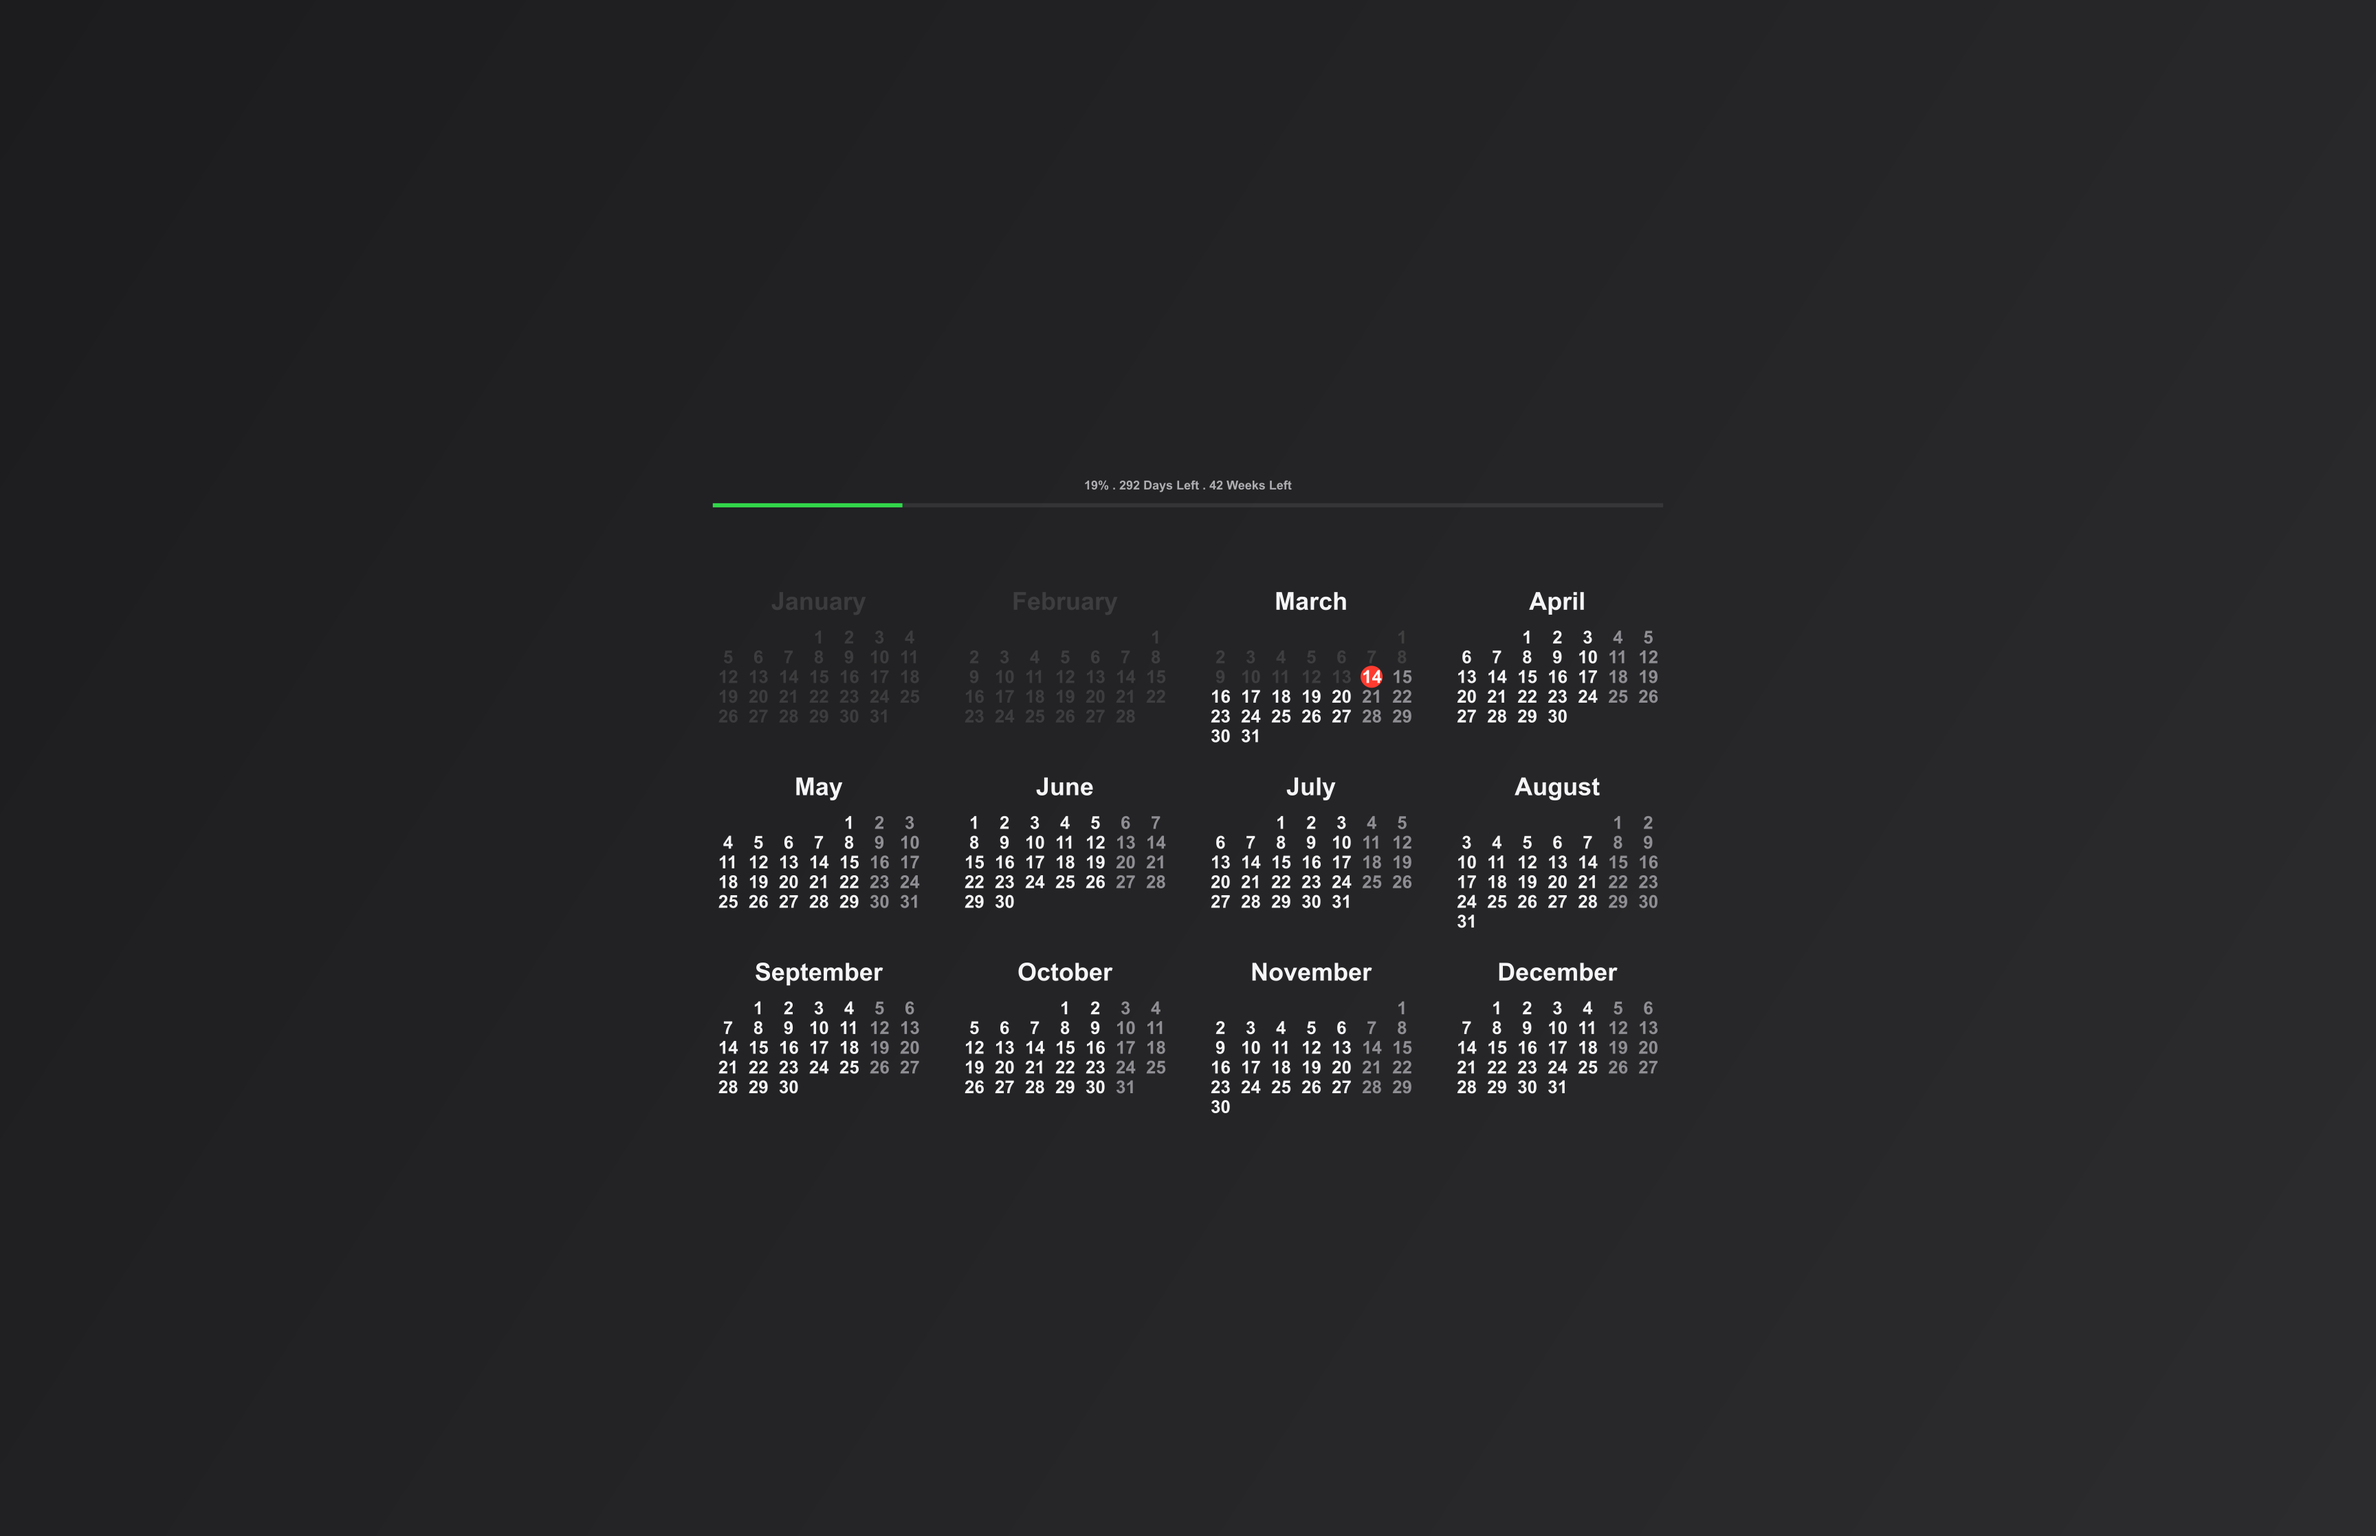
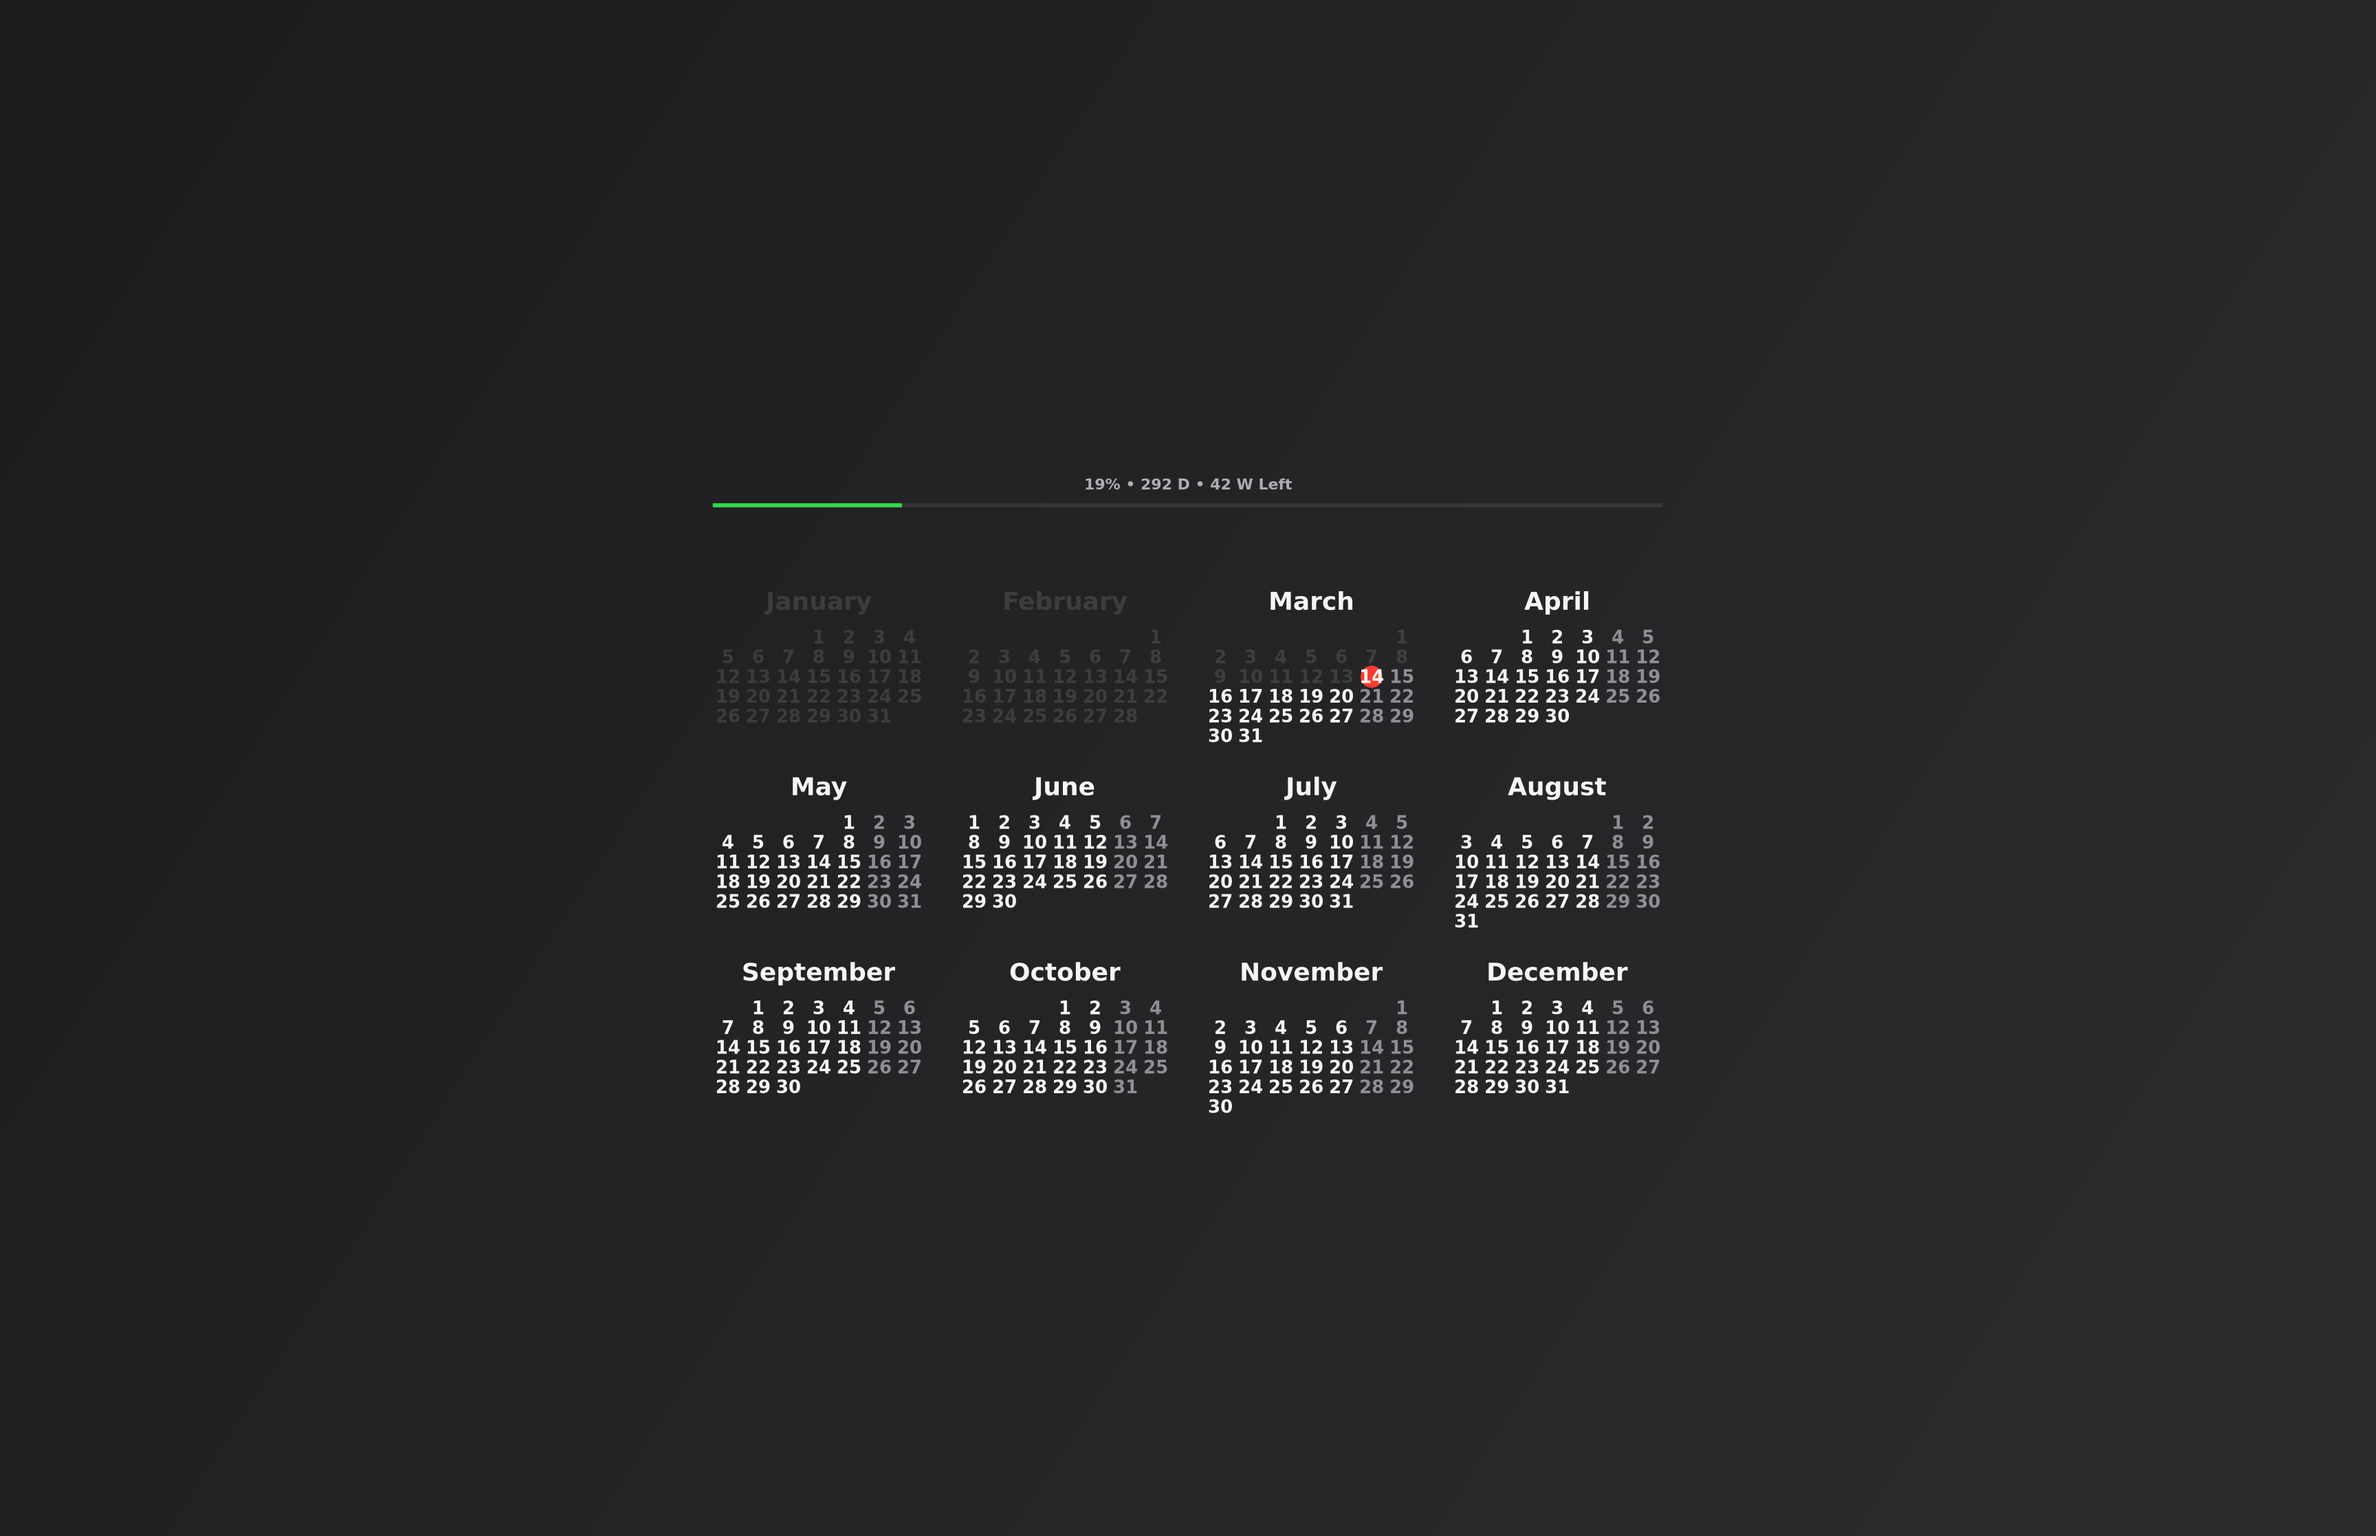
Few changes

diff --git a/mac-wallpaper.js b/mac-wallpaper.js
@@ -189,21 +189,21 @@ function drawHeader(){
 
   // Track (Subtle matching line)
   ctx.fillStyle = "rgba(255,255,255,0.08)";
-  ctx.fillRect(barX, barY, barW, 6);
+  ctx.fillRect(barX, barY, barW, 10);
 
   // Fill (Active progress)
   ctx.fillStyle = CONFIG.PROGRESS_BAR_COLOR;
-  ctx.fillRect(barX, barY, barW * percent, 6);
+  ctx.fillRect(barX, barY, barW * percent, 10);
 
   // Text (Centered over the bar)
   const daysLeft = Math.floor((end-now)/(1000*60*60*24));
   const weeksLeft = Math.ceil(daysLeft / 7);
   
   text(
-    `${Math.floor(percent*100)}% . ${daysLeft} Days Left . ${weeksLeft} Weeks Left`,
+    `${Math.floor(percent*100)}% • ${daysLeft} D • ${weeksLeft} W Left`,
     barX + (barW/2),
     textY,
-    18, 
+    22, 
     CONFIG.PROGRESS_TEXT_COLOR,
     "center"
   );
